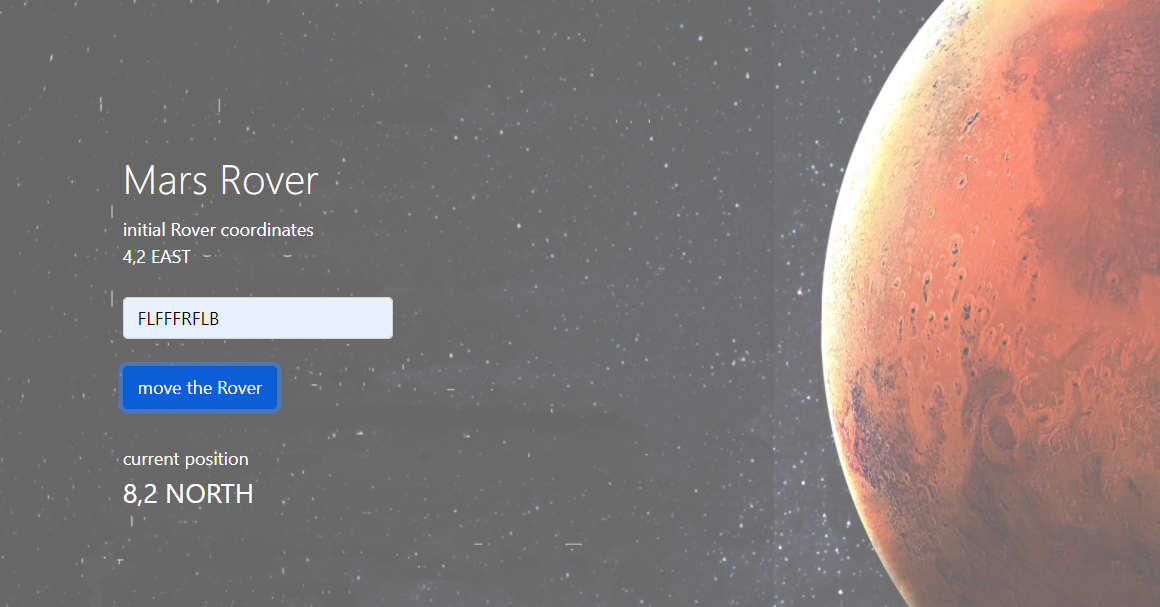
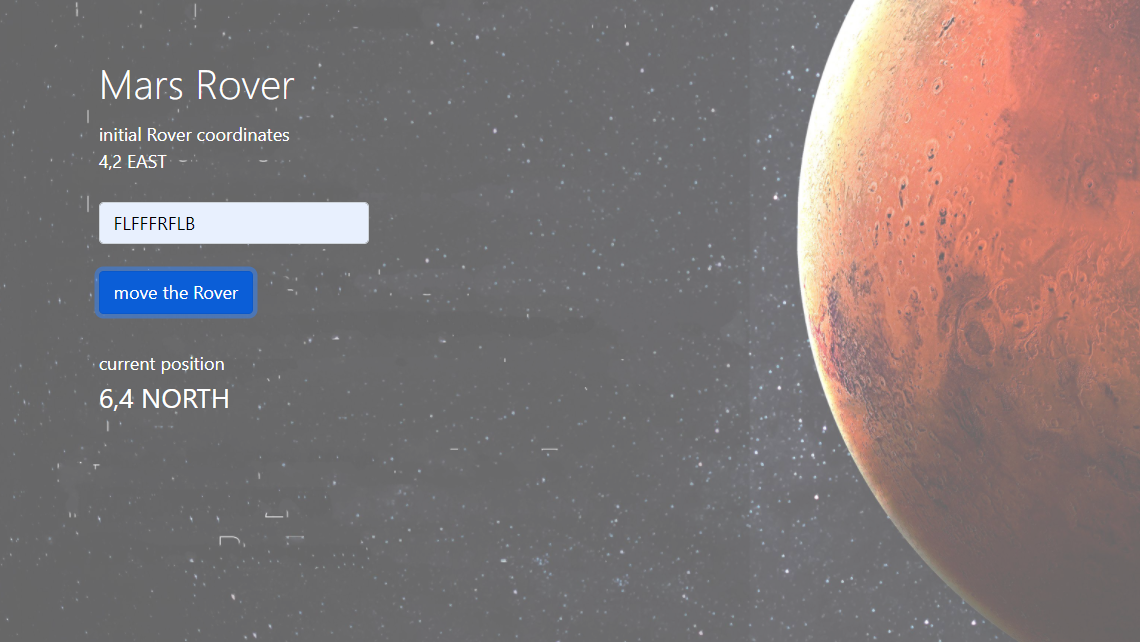
unit test added

diff --git a/MarsRover/MarsRover.py b/MarsRover/MarsRover.py
@@ -1,0 +1,84 @@
+
+# -------------------------------
+# commands functions
+# -------------------------------
+
+# Move forward on current heading ,increase x
+def Fcommand(x, y, Direction):
+    new_dir_dict = {
+        'EAST': (x+1,y) ,
+        'WEST': (x-1,y),
+        'NORTH': (x,y+1),
+        'SOUTH': (x,y-1)
+    }
+    X,Y=new_dir_dict.get(Direction)
+  #  X = x + 1
+    return X, Y, Direction
+
+
+# B -> Move backwards on current heading ,decrease x
+def Bcommand(x, y, Direction):
+    new_dir_dict = {
+        'EAST': (x - 1, y),
+        'WEST': (x + 1, y),
+        'NORTH': (x, y - 1),
+        'SOUTH': (x, y + 1)
+    }
+    X, Y = new_dir_dict.get(Direction)
+  #  X = x - 1
+    return X, Y, Direction
+
+
+# L -> rotate left from the current direction by 90 degrees
+def Lcommand(x, y, Direction):
+    # dictionary for the next rotation as it is constants
+    # to avoid nested if conditions
+
+    new_dir_dict = {
+        'EAST': 'NORTH',
+        'NORTH': 'WEST',
+        'WEST': 'SOUTH',
+        'SOUTH': 'EAST'
+    }
+    # get the new direction
+    dir = new_dir_dict.get(Direction)
+    return x, y, dir
+
+
+# R -> rotate left from the current direction by 90 degrees
+def Rcommand(x, y, Direction):
+    # dictionary for the next rotation as it is constants
+    # to avoid nested if conditions
+
+    new_dir_dict = {
+        'EAST': 'SOUTH',
+        'SOUTH': 'WEST',
+        'WEST': 'NORTH',
+        'NORTH': 'EAST'
+    }
+
+    # get the new direction
+    dir = new_dir_dict.get(Direction)
+    return x, y, dir
+
+
+# -------------------------------
+# main function to loop over the rover commands
+# -------------------------------
+def Rover(command, x, y, Direction):
+
+    # loop over the commands string to check each char
+    for current in command:
+        #check the current command to perform the right function
+        if current == 'f' or current == 'F':
+            x, y, Direction = Fcommand(x, y, Direction)
+        elif current == 'b' or current == 'B':
+            x, y, Direction , = Bcommand(x, y, Direction)
+        elif current == 'l' or current == 'L':
+            x, y, Direction = Lcommand(x, y, Direction)
+        else:
+            x, y, Direction = Rcommand(x, y, Direction)
+
+    return x, y, Direction
+
+

diff --git a/MarsRover/main.py b/MarsRover/main.py
@@ -1,79 +1,8 @@
 import os
 from flask import Flask, request, render_template, jsonify, url_for
-
-
+from MarsRover import *
 # Flask constructor
 app = Flask(__name__)
-
-# -------------------------------
-# commands functions
-# -------------------------------
-
-
-# Move forward on current heading ,increase x
-def Fcommand(x, y, Direction):
-    X = x + 1
-    return X, y, Direction
-
-
-# B -> Move backwards on current heading ,decrease x
-def Bcommand(x, y, Direction):
-    X = x - 1
-    return X, y, Direction
-
-
-# L -> rotate left from the current direction by 90 degrees
-def Lcommand(x, y, Direction):
-    # dictionary for the next rotation as it is constants
-    # to avoid nested if conditions
-
-    new_dir_dict = {
-        'EAST': 'NORTH',
-        'NORTH': 'WEST',
-        'WEST': 'SOUTH',
-        'SOUTH': 'EAST'
-    }
-    # get the new direction
-    dir = new_dir_dict.get(Direction)
-    return x, y, dir
-
-
-# R -> rotate left from the current direction by 90 degrees
-def Rcommand(x, y, Direction):
-    # dictionary for the next rotation as it is constants
-    # to avoid nested if conditions
-
-    new_dir_dict = {
-        'EAST': 'SOUTH',
-        'SOUTH': 'WEST',
-        'WEST': 'NORTH',
-        'NORTH': 'EAST'
-    }
-
-    # get the new direction
-    dir = new_dir_dict.get(Direction)
-    return x, y, dir
-
-
-# -------------------------------
-# main function to loop over the rover commands
-# -------------------------------
-def Rover(command, x, y, Direction):
-
-    # loop over the commands string to check each char
-    for current in command:
-        #check the current command to perform the right function
-        if current == 'f' or current == 'F':
-            x, y, Direction = Fcommand(x, y, Direction)
-        elif current == 'b' or current == 'B':
-            x, y, Direction , = Bcommand(x, y, Direction)
-        elif current == 'l' or current == 'L':
-            x, y, Direction = Lcommand(x, y, Direction)
-        else:
-            x, y, Direction = Rcommand(x, y, Direction)
-
-    return x, y, Direction
-
 
 # -------------------------------
 # handling browser caching

diff --git a/MarsRover/unitTest.py b/MarsRover/unitTest.py
@@ -1,0 +1,24 @@
+import unittest
+from MarsRover import *
+class MyTestCase(unittest.TestCase):
+    def test_Rover1(self):
+        x,y,direction=  Rover('FLFFFRFLB',4,2,'EAST')
+        self.assertEqual((x,y,direction), (6,4,'NORTH'))
+        # self.assertEqual(y, 4)
+        # self.assertEqual(direction,'NORTH')
+
+    def test_Rover2(self):
+        x, y, direction = Rover('FFFLBLFF', 4, 2, 'EAST')
+        self.assertEqual((x,y,direction), (5,1,'WEST'))
+        # self.assertEqual(y, 2)
+        # self.assertEqual(direction, 'EAST')
+
+    def test_Rover3(self):
+        x, y, direction = Rover('BRFFFRF', 4, 2, 'EAST')
+        self.assertEqual((x,y,direction), (2,-1,'WEST'))
+        # self.assertEqual(y, 2)
+        # self.assertEqual(direction, 'NORTH')
+
+
+if __name__ == '__main__':
+    unittest.main()
